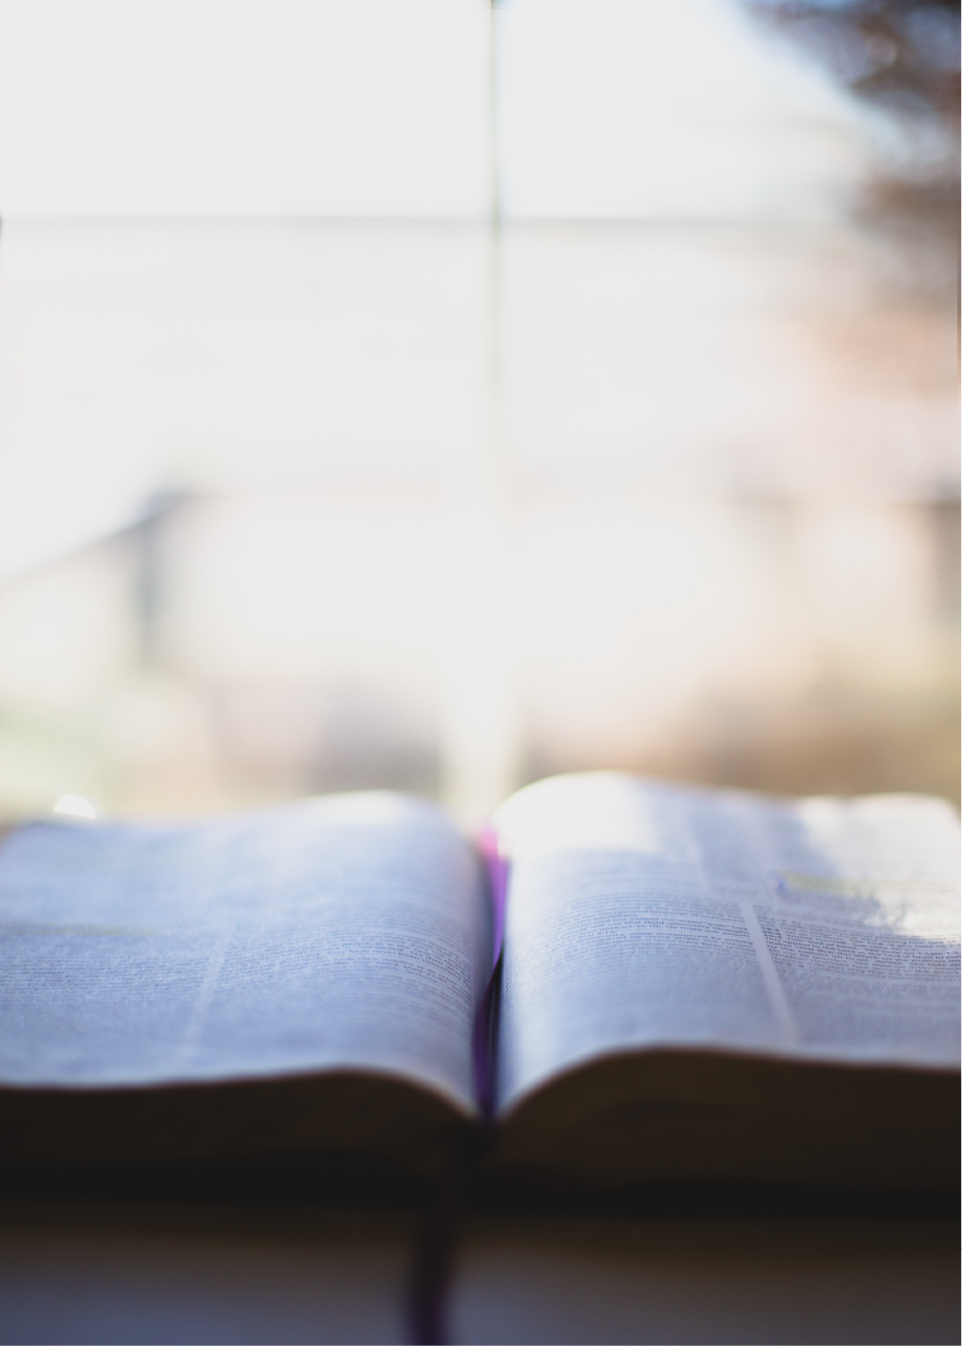
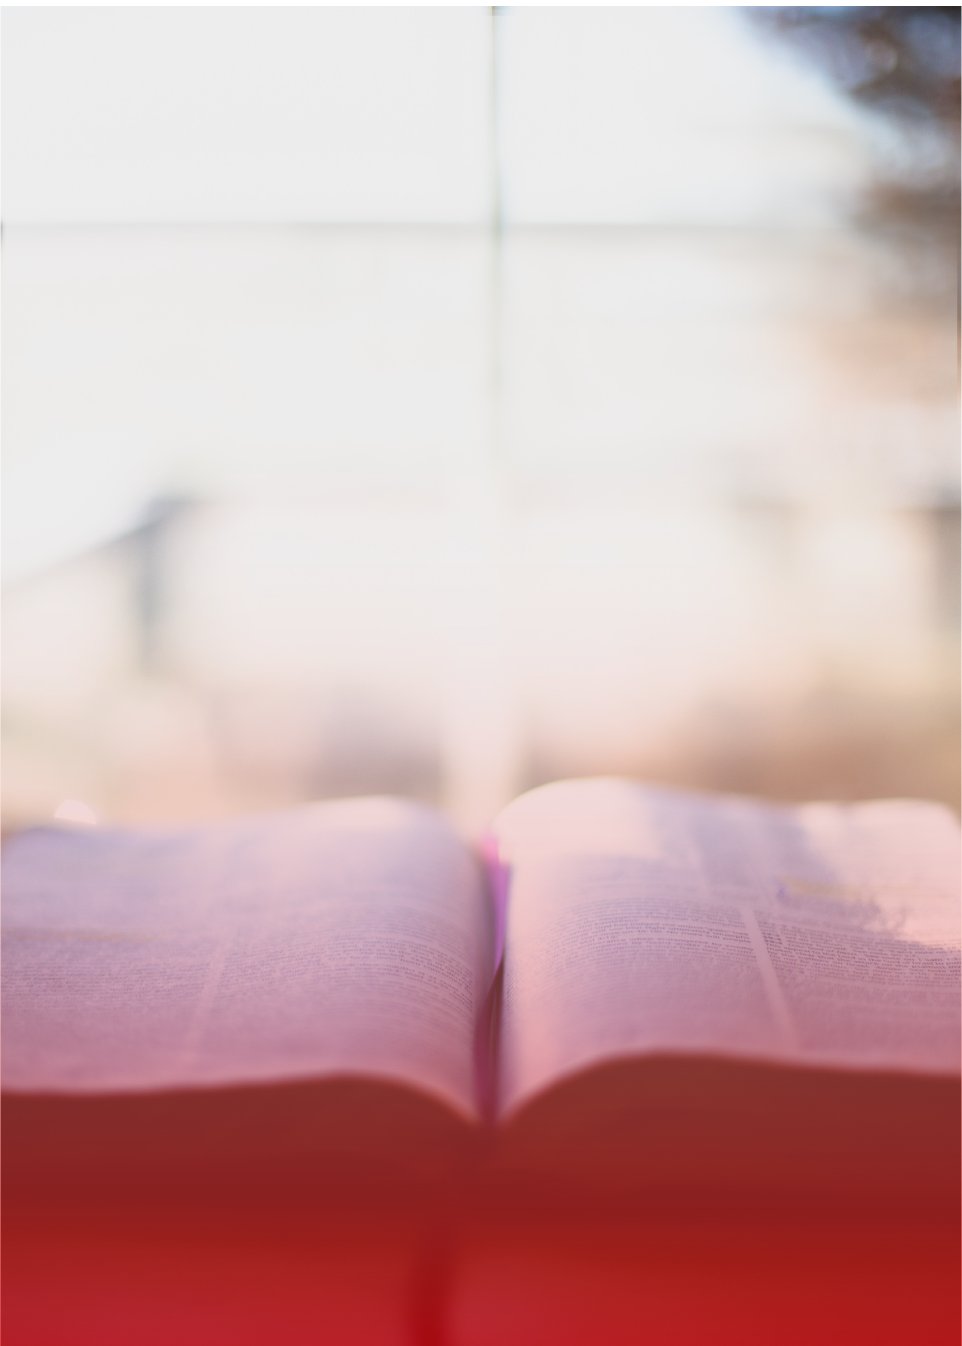
Correção na versão, estrutura do layout signup page e contraste bg

diff --git a/lib/screens/SignUp/index.dart b/lib/screens/SignUp/index.dart
@@ -56,17 +56,26 @@ class SignUpScreenState extends State<SignUpScreen> {
         key: _scaffoldKey,
         body: new SingleChildScrollView(
           child: new Container(
-            padding: new EdgeInsets.all(16.0),
+            padding: new EdgeInsets.only(left: 16.0, right: 16.0),
             decoration: new BoxDecoration(image: backgroundImage),
+            height: screenSize.height,
             child: new Column(
-              mainAxisAlignment: MainAxisAlignment.end,
-              crossAxisAlignment: CrossAxisAlignment.center,
+              mainAxisAlignment: MainAxisAlignment.spaceAround,
               children: <Widget>[
-                new SizedBox(
-                    height: screenSize.height / 2,
+                new Container(
+                    //height: screenSize.height / 2.5,
                     child: new Column(
                       mainAxisAlignment: MainAxisAlignment.center,
                       children: <Widget>[
+                        new Hero(
+                            tag: 'VSDove',
+                            child: new Image(
+                          image: logo,
+                          width: (screenSize.width < 500)
+                              ? 150.0
+                              : (screenSize.width / 4),
+                          height: screenSize.height / 4,
+                        )),
                         new Text(
                           "CRIAR NOVA CONTA",
                           textAlign: TextAlign.center,
@@ -74,8 +83,8 @@ class SignUpScreenState extends State<SignUpScreen> {
                         )
                       ],
                     )),
-                new SizedBox(
-                  height: screenSize.height / 2,
+                new Container(
+                  //height: screenSize.height / 1.5,
                   child: new Column(
                     children: <Widget>[
                       new Form(

diff --git a/lib/screens/Login/index.dart b/lib/screens/Login/index.dart
@@ -91,10 +91,10 @@ class LoginScreenState extends State<LoginScreen> {
                   new Container(
                     height: screenSize.height / 2,
                     child: new Column(
-                      crossAxisAlignment: CrossAxisAlignment.center,
-                      mainAxisAlignment: MainAxisAlignment.center,
+
                       children: <Widget>[
-                        new Center(
+                        new Hero(
+                            tag: 'VSDove',
                             child: new Image(
                           image: logo,
                           width: (screenSize.width < 500)
@@ -117,7 +117,7 @@ class LoginScreenState extends State<LoginScreen> {
                           child: new Column(
                             children: <Widget>[
                               new InputField(
-                                  hintText: "Email",
+                                  hintText: "Usuário",
                                   obscureText: false,
                                   textInputType: TextInputType.emailAddress,
                                   textStyle: textStyle,
@@ -168,7 +168,7 @@ class LoginScreenState extends State<LoginScreen> {
                                 onPressed: () => onPressed("/SignUp"),
                                 buttonTextStyle: buttonTextStyle),
                             new TextButton(
-                                buttonName: "Ajuda",
+                                buttonName: "Informações",
                                 onPressed: _onPressed,
                                 buttonTextStyle: buttonTextStyle)
                           ],

diff --git a/lib/screens/SignUp/style.dart b/lib/screens/SignUp/style.dart
@@ -1,7 +1,7 @@
 import 'package:flutter/material.dart';
 
 TextStyle headingStyle = new TextStyle(
-  color: Colors.white,
+  color: Colors.redAccent,
   fontSize: 22.0,
   fontWeight: FontWeight.bold,
 );
@@ -10,3 +10,5 @@ DecorationImage backgroundImage = new DecorationImage(
   image: new ExactAssetImage('assets/signup-screen-background.png'),
   fit: BoxFit.cover,
 );
+
+ExactAssetImage logo = new ExactAssetImage("assets/vsdove.png");

diff --git a/lib/screens/Home/index.dart b/lib/screens/Home/index.dart
@@ -102,11 +102,11 @@ class HomeScreenState extends State<HomeScreen>{
   @override
   Widget build(BuildContext context) {
 
-    audiosManager.audioPlayer.setCompletionHandler(() {
+    audiosManager.audioPlayer.completionHandler = () {
       audiosManager.complete();
 
       setState(() { showPlayIcon = true; });
-    });
+    };
 
     // TODO: implement build
     return new Scaffold(

diff --git a/lib/services/audiosManager.dart b/lib/services/audiosManager.dart
@@ -1,5 +1,5 @@
 import 'package:verboshop/models/audio.dart';
-import 'package:audioplayers/audioplayer.dart';
+import 'package:audioplayers/audioplayers.dart';
 import 'dart:async';
 
 class AudiosManager {
